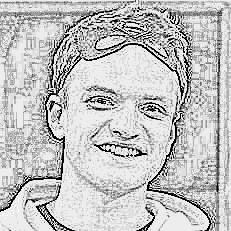
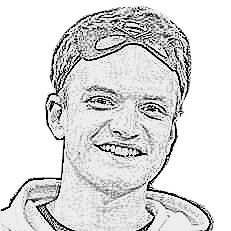
Update pictures

diff --git a/static/css/main.css b/static/css/main.css
@@ -11,7 +11,7 @@
 .logo-img {
     width: 75px;
     height: 75px;
-    border-radius: 60px;
+    /* border-radius: 60px; */
     margin: 0 auto;
 }
 .logo-turner {
@@ -320,7 +320,7 @@ display: table;
 }
 
 #about-img {
-   border-radius: 50%;
+   border-radius: 0%;
    max-width:160px; 
    max-height:160px; 
    margin: 30px 0px 0px 60px;
